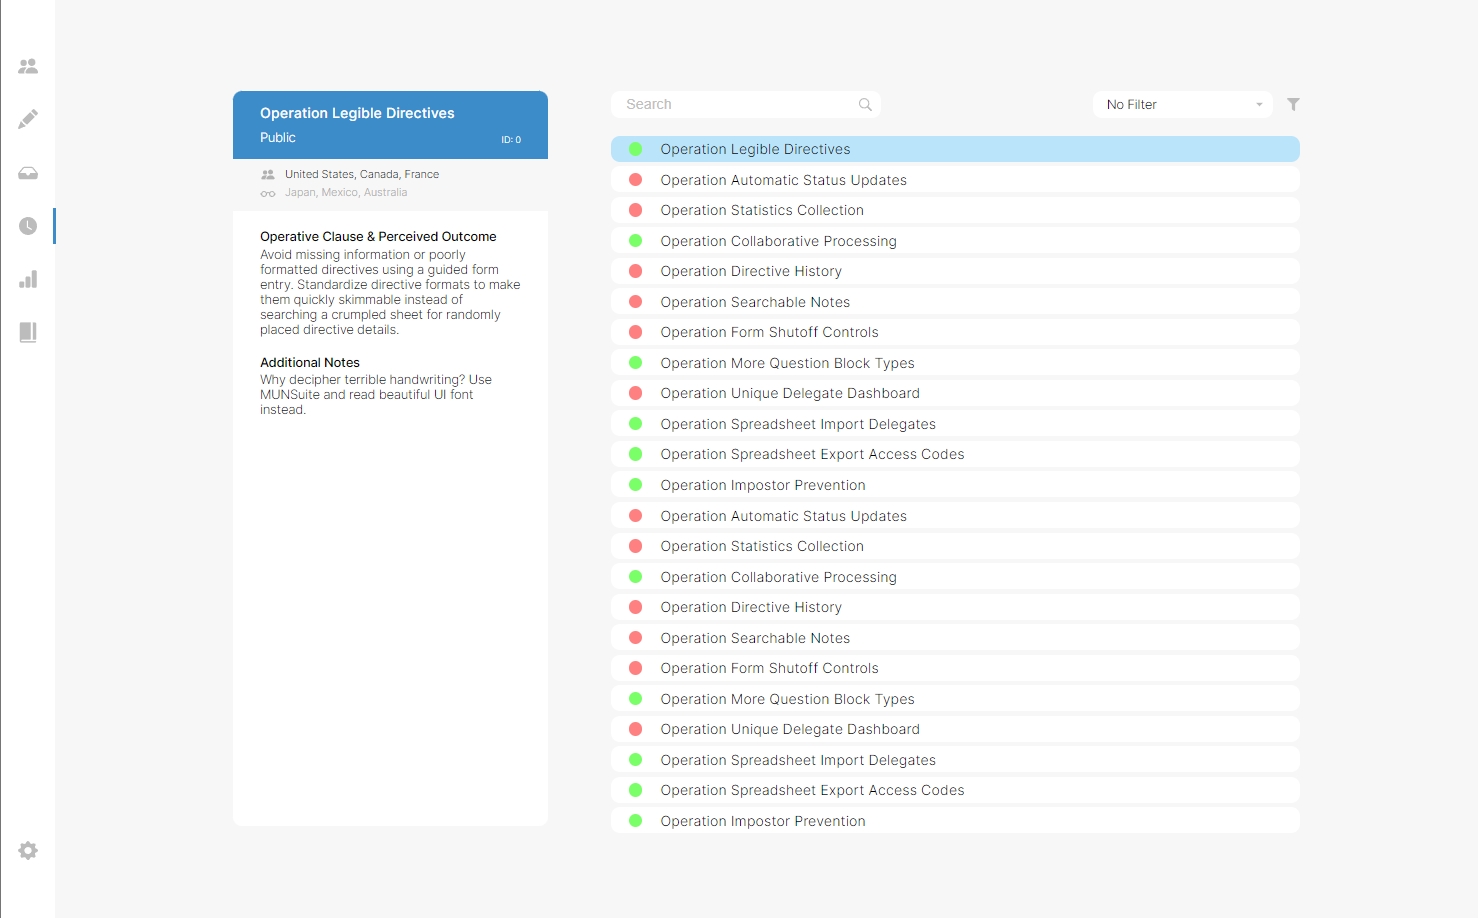
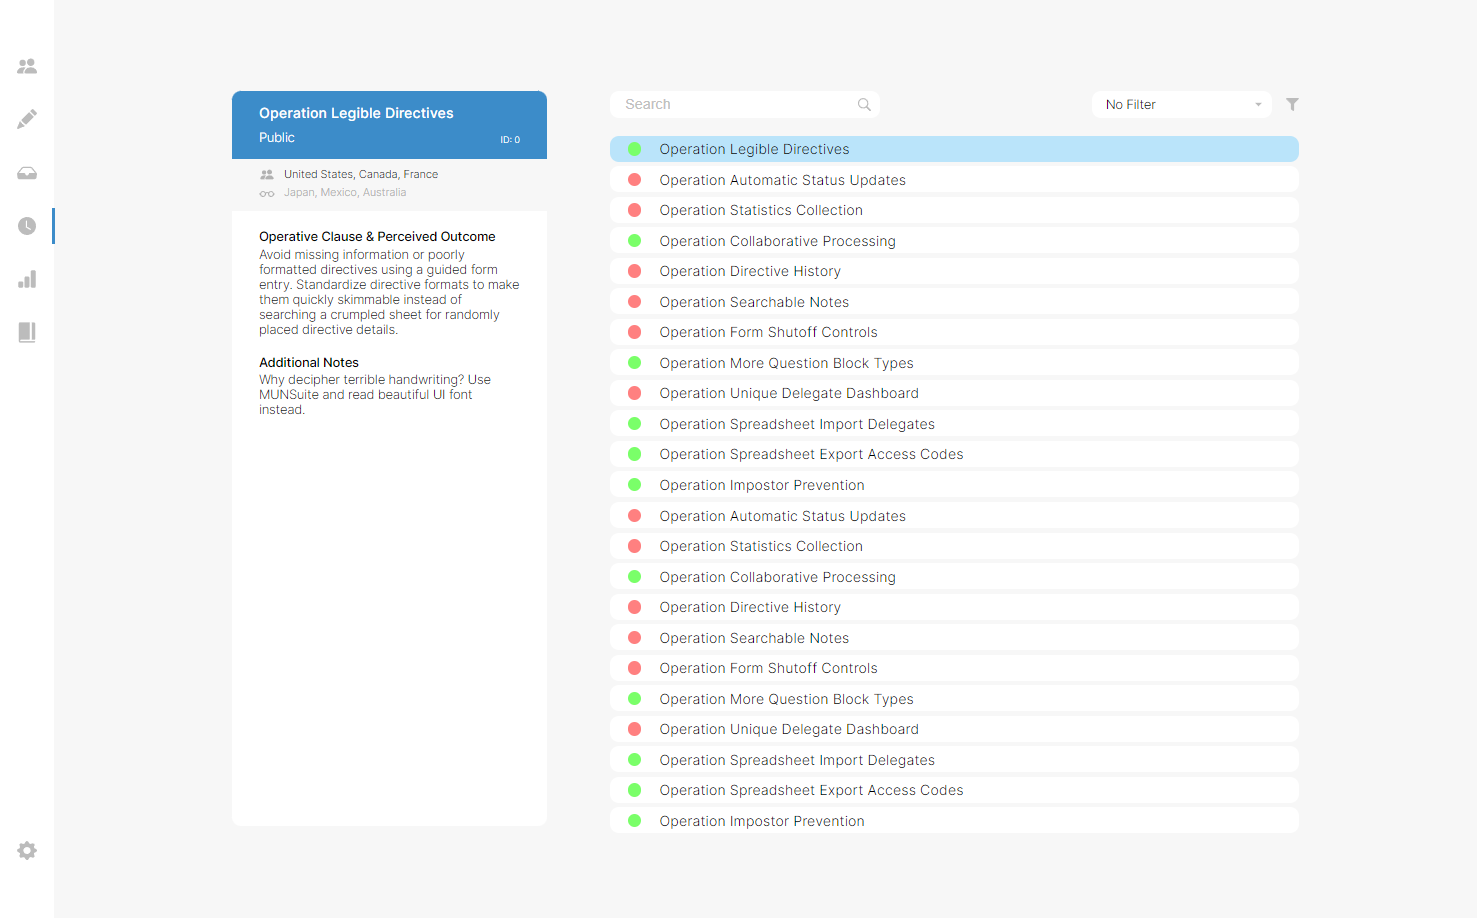
style: mockup cropping & minor export btt styling

diff --git a/src/staff-side/components/history/History.js b/src/staff-side/components/history/History.js
@@ -75,7 +75,7 @@ function History() {
                     <div className="btt-clear-history" onClick={handleClear}>Clear History</div>
                     <div className="btt-download-history" onClick={exportProcesseds}>
                         <BsDownload size={18}/>
-                        <p>Export (.csv)</p>
+                        <p>Export All (.csv)</p>
                     </div>
                 </div>
             </div>

diff --git a/src/staff-side/components/history/History.scoped.css b/src/staff-side/components/history/History.scoped.css
@@ -176,7 +176,7 @@
 }
 
 .btt-download-history {
-    width: 170px;
+    width: 190px;
 
     display: flex;
     align-items: center;

diff --git a/src/App.css b/src/App.css
@@ -19,6 +19,7 @@
 
 .UI-container {
   flex-grow: 1;
+  overflow-x: hidden;
 }
 
 /* width */
